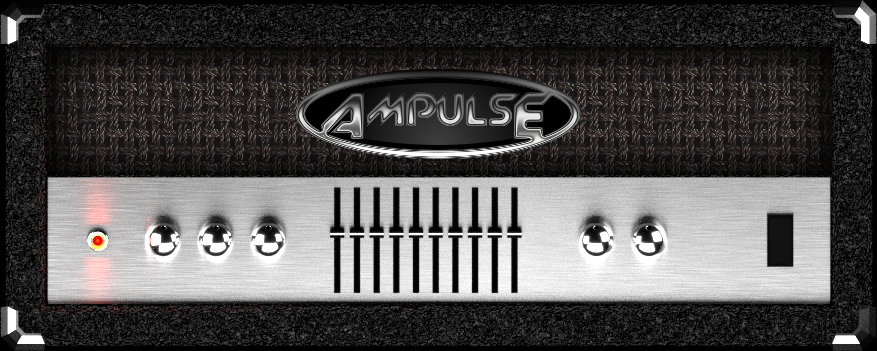
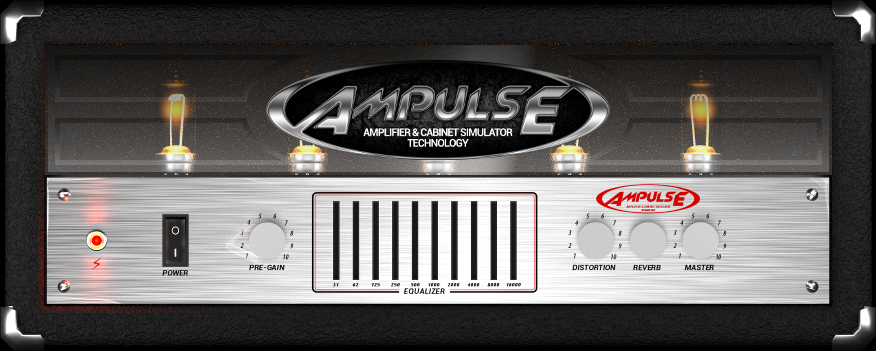
Amplifier with knobs

diff --git a/UI/Components/Knob.xaml b/UI/Components/Knob.xaml
@@ -1,0 +1,23 @@
+<UserControl x:Class="Ampulse.UI.Components.Knob"
+             xmlns="http://schemas.microsoft.com/winfx/2006/xaml/presentation"
+             xmlns:x="http://schemas.microsoft.com/winfx/2006/xaml"
+             xmlns:mc="http://schemas.openxmlformats.org/markup-compatibility/2006" 
+             xmlns:d="http://schemas.microsoft.com/expression/blend/2008" 
+             mc:Ignorable="d" 
+             d:DesignHeight="40" d:DesignWidth="40" MaxWidth="40" MaxHeight="40" Width="40" Height="40">
+    <Grid RenderTransformOrigin="0.5,0.5">
+        <Thumb x:Name="thumb" DragStarted="DragStarted" DragCompleted="DragCompleted" DragDelta="DragDelta" Opacity="0"/>
+        <Grid.Background>
+            <ImageBrush x:Name="knob" ImageSource="/Ampulse;component/Assets/knob.png">
+                <ImageBrush.RelativeTransform>
+                    <TransformGroup>
+                        <ScaleTransform CenterX="0.5" CenterY="0.5"/>
+                        <SkewTransform CenterX="0.5" CenterY="0.5"/>
+                        <RotateTransform CenterX="0.5" CenterY="0.5" Angle="0"/>
+                        <TranslateTransform/>
+                    </TransformGroup>
+                </ImageBrush.RelativeTransform>
+            </ImageBrush>
+        </Grid.Background>
+    </Grid>
+</UserControl>

diff --git a/UI/Components/Amplifier.xaml b/UI/Components/Amplifier.xaml
@@ -1,0 +1,17 @@
+<UserControl
+             xmlns="http://schemas.microsoft.com/winfx/2006/xaml/presentation"
+             xmlns:x="http://schemas.microsoft.com/winfx/2006/xaml"
+             xmlns:mc="http://schemas.openxmlformats.org/markup-compatibility/2006" 
+             xmlns:d="http://schemas.microsoft.com/expression/blend/2008" 
+             xmlns:local="clr-namespace:Ampulse.UI.Components" x:Class="Ampulse.UI.Components.Amplifier" 
+             mc:Ignorable="d" Width="876" MaxWidth="876" MaxHeight="351" MinWidth="876" MinHeight="351">
+    <Grid>
+        <Grid.Background>
+            <ImageBrush ImageSource="/Ampulse;component/Assets/amp.png"/>
+        </Grid.Background>
+        <local:Knob x:Name="pregain" HorizontalAlignment="Left" Margin="247,220,0,0" VerticalAlignment="Top"/>
+        <local:Knob x:Name="distortion" HorizontalAlignment="Left" Margin="576,220,0,0" VerticalAlignment="Top"/>
+        <local:Knob x:Name="reverb" HorizontalAlignment="Left" Margin="628,220,0,0" VerticalAlignment="Top"/>
+        <local:Knob x:Name="master" HorizontalAlignment="Left" Margin="681,220,0,0" VerticalAlignment="Top"/>
+    </Grid>
+</UserControl>

diff --git a/UI/MainWindow.xaml b/UI/MainWindow.xaml
@@ -1,0 +1,16 @@
+<Window
+        xmlns="http://schemas.microsoft.com/winfx/2006/xaml/presentation"
+        xmlns:x="http://schemas.microsoft.com/winfx/2006/xaml"
+        xmlns:Components="clr-namespace:Ampulse.UI.Components" x:Class="Ampulse.UI.MainWindow"
+        Title="Ampulse" SizeToContent="WidthAndHeight" ResizeMode="NoResize">
+    <Grid>
+        <Grid.RowDefinitions>
+            <RowDefinition MinHeight="351"/>
+            <RowDefinition/>
+        </Grid.RowDefinitions>
+        <Grid.ColumnDefinitions>
+            <ColumnDefinition MinWidth="876"/>
+        </Grid.ColumnDefinitions>
+        <Components:Amplifier Width="Auto" Height="Auto"/>
+    </Grid>
+</Window>

diff --git a/App.xaml b/App.xaml
@@ -1,7 +1,7 @@
 <Application x:Class="Ampulse.App"
              xmlns="http://schemas.microsoft.com/winfx/2006/xaml/presentation"
              xmlns:x="http://schemas.microsoft.com/winfx/2006/xaml"
-             StartupUri="MainWindow.xaml">
+             StartupUri="UI/MainWindow.xaml">
     <Application.Resources>
          
     </Application.Resources>

diff --git a/UI/Components/Knob.xaml.cs b/UI/Components/Knob.xaml.cs
@@ -1,0 +1,80 @@
+using System;
+using System.Collections.Generic;
+using System.Linq;
+using System.Text;
+using System.Threading.Tasks;
+using System.Windows;
+using System.Windows.Controls;
+using System.Windows.Data;
+using System.Windows.Documents;
+using System.Windows.Input;
+using System.Windows.Media;
+using System.Windows.Media.Imaging;
+using System.Windows.Navigation;
+using System.Windows.Shapes;
+
+namespace Ampulse.UI.Components
+{
+	/// <summary>
+	/// Knob interaction logic.
+	/// </summary>
+	public partial class Knob : UserControl
+	{
+		private readonly double MAX = 135.0; // Maximum angle
+
+		private bool rotating;
+		private float sensivity;
+		private float value;
+		private RotateTransform transform;
+
+		public float Sensivity
+		{
+			get { return sensivity; }
+			set { this.sensivity = value; }
+		}
+		public float Value
+		{
+			get	{ return value;	}
+			set	{ this.value = value; }
+		}
+
+		public Knob()
+		{
+			InitializeComponent();
+
+			rotating = false;
+			sensivity = 0.2f;
+			value = 0.5f;
+
+			transform = new RotateTransform();
+			transform.CenterX = 0.5;
+			transform.CenterY = 0.5;
+			transform.Angle = 0.0;
+
+			knob.RelativeTransform = transform;
+		}
+
+		private void DragStarted(object sender, System.Windows.Controls.Primitives.DragStartedEventArgs e)
+		{
+			rotating = true;
+		}
+
+		private void DragCompleted(object sender, System.Windows.Controls.Primitives.DragCompletedEventArgs e)
+		{
+			rotating = false;
+		}
+
+		private void DragDelta(object sender, System.Windows.Controls.Primitives.DragDeltaEventArgs e)
+		{
+			double newAngle = transform.Angle + (e.VerticalChange * sensivity);
+			bool atBounds = Math.Abs(newAngle) > MAX;
+
+			// Rotate unless while we're in the bounds.
+			if (rotating && !atBounds)
+				transform.Angle = newAngle;
+
+			// Set the value.
+			value = (float)((transform.Angle + MAX) / (MAX * 2));
+		}
+	}
+}

diff --git a/UI/Components/Amplifier.xaml.cs b/UI/Components/Amplifier.xaml.cs
@@ -1,0 +1,28 @@
+using System;
+using System.Collections.Generic;
+using System.Linq;
+using System.Text;
+using System.Threading.Tasks;
+using System.Windows;
+using System.Windows.Controls;
+using System.Windows.Data;
+using System.Windows.Documents;
+using System.Windows.Input;
+using System.Windows.Media;
+using System.Windows.Media.Imaging;
+using System.Windows.Navigation;
+using System.Windows.Shapes;
+
+namespace Ampulse.UI.Components
+{
+    /// <summary>
+    /// Logique d'interaction pour Amplifier.xaml
+    /// </summary>
+    public partial class Amplifier : UserControl
+    {
+        public Amplifier()
+        {
+            InitializeComponent();
+        }
+    }
+}

diff --git a/UI/MainWindow.xaml.cs b/UI/MainWindow.xaml.cs
@@ -13,7 +13,7 @@ using System.Windows.Media.Imaging;
 using System.Windows.Navigation;
 using System.Windows.Shapes;
 
-namespace Ampulse
+namespace Ampulse.UI
 {
     /// <summary>
     /// Logique d'interaction pour MainWindow.xaml
